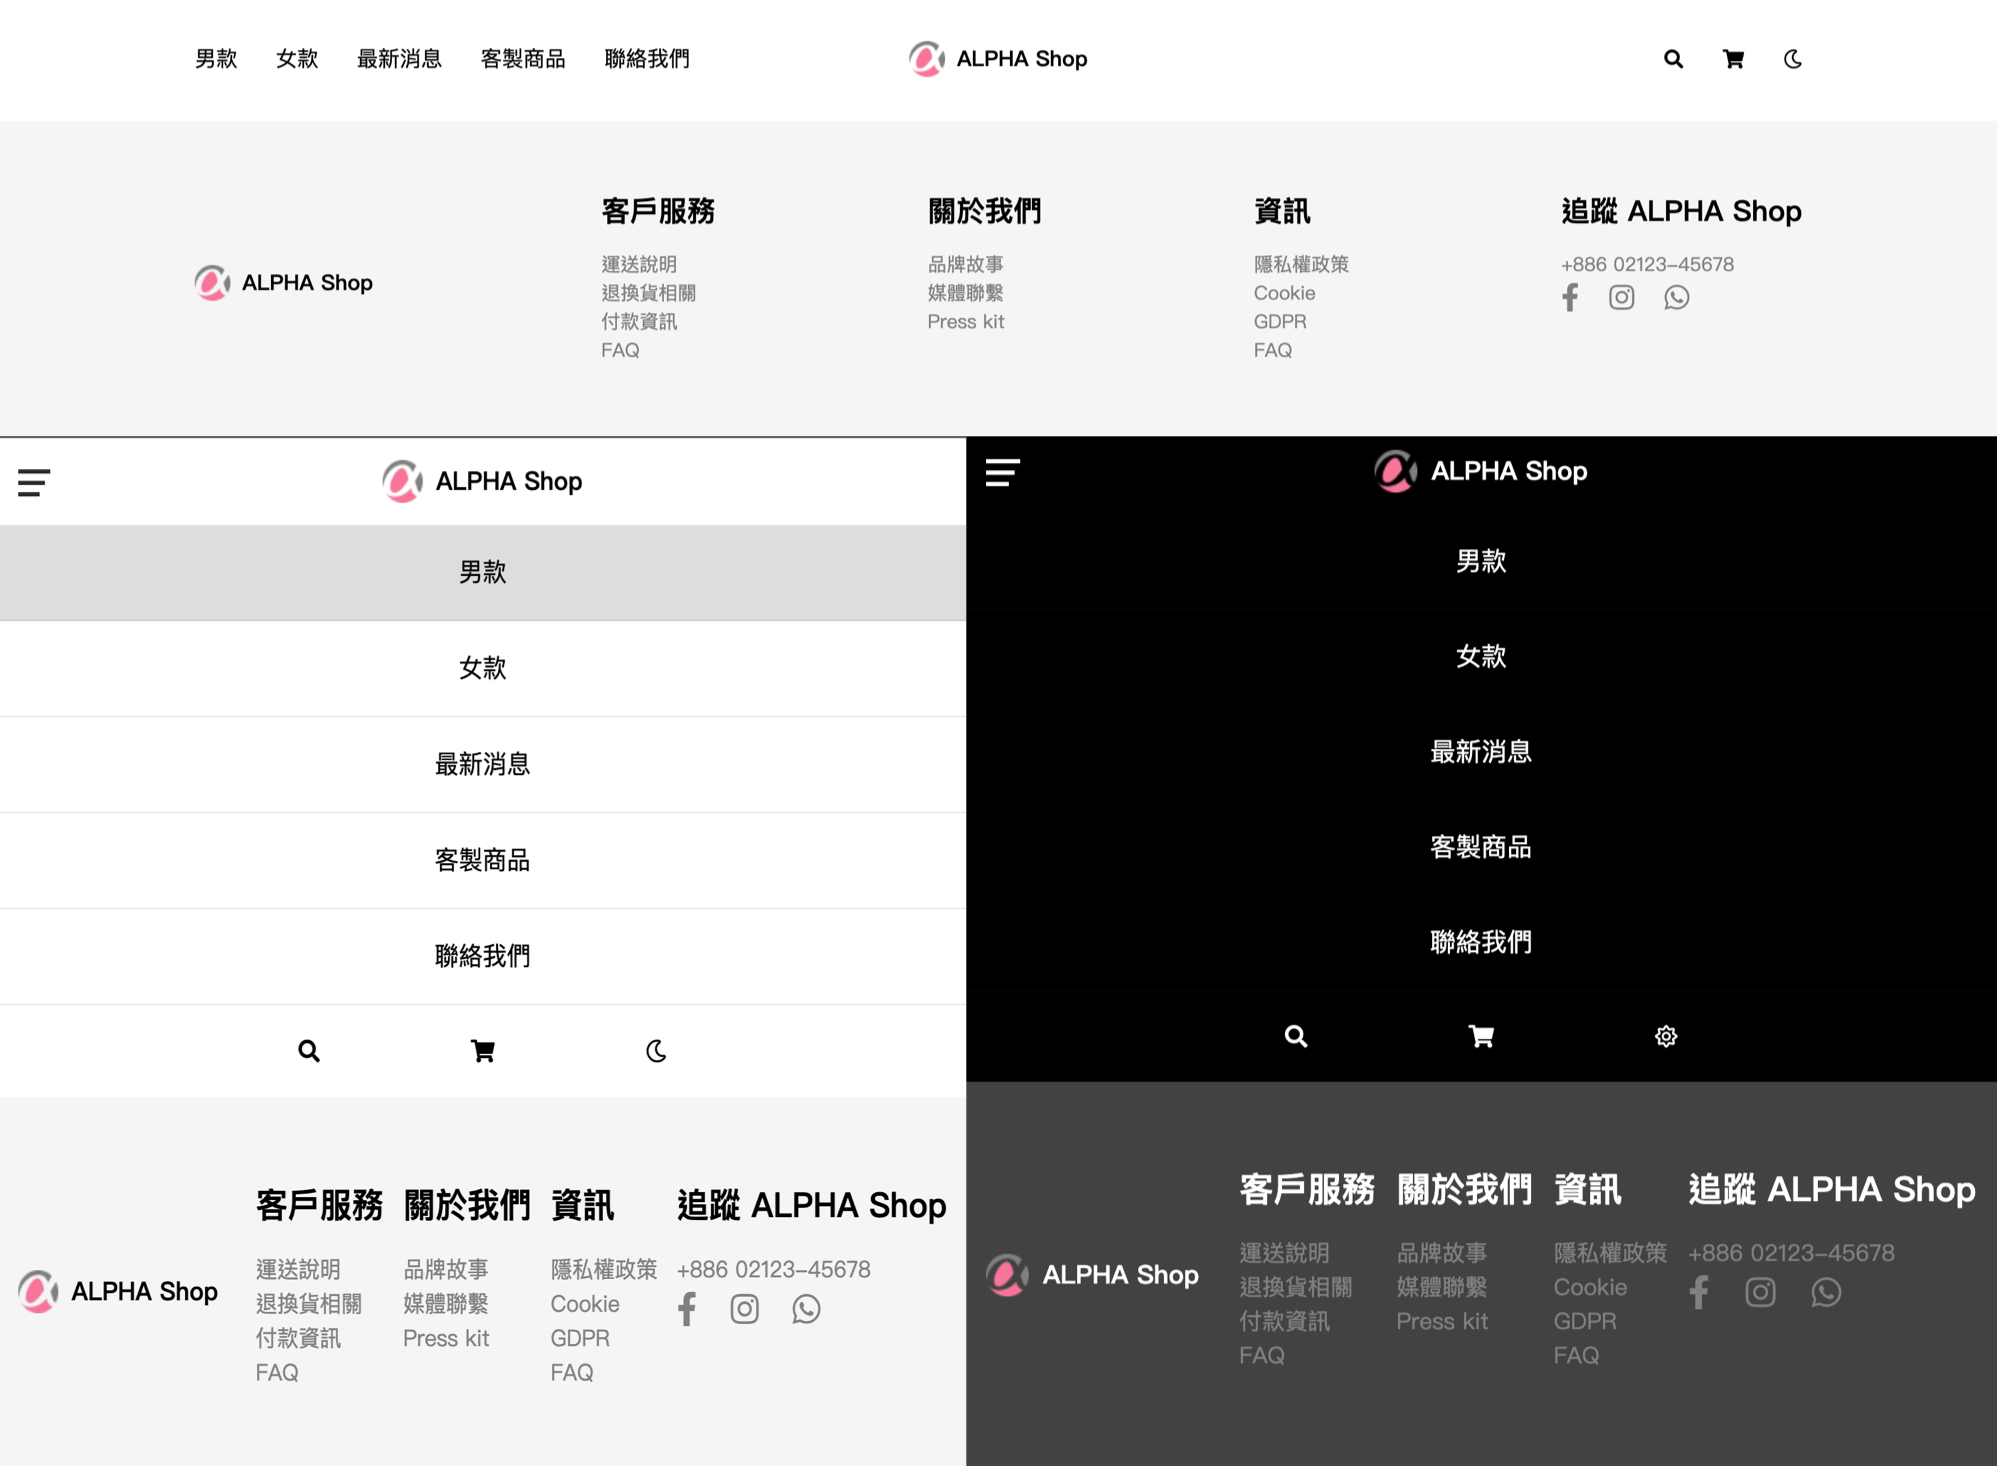
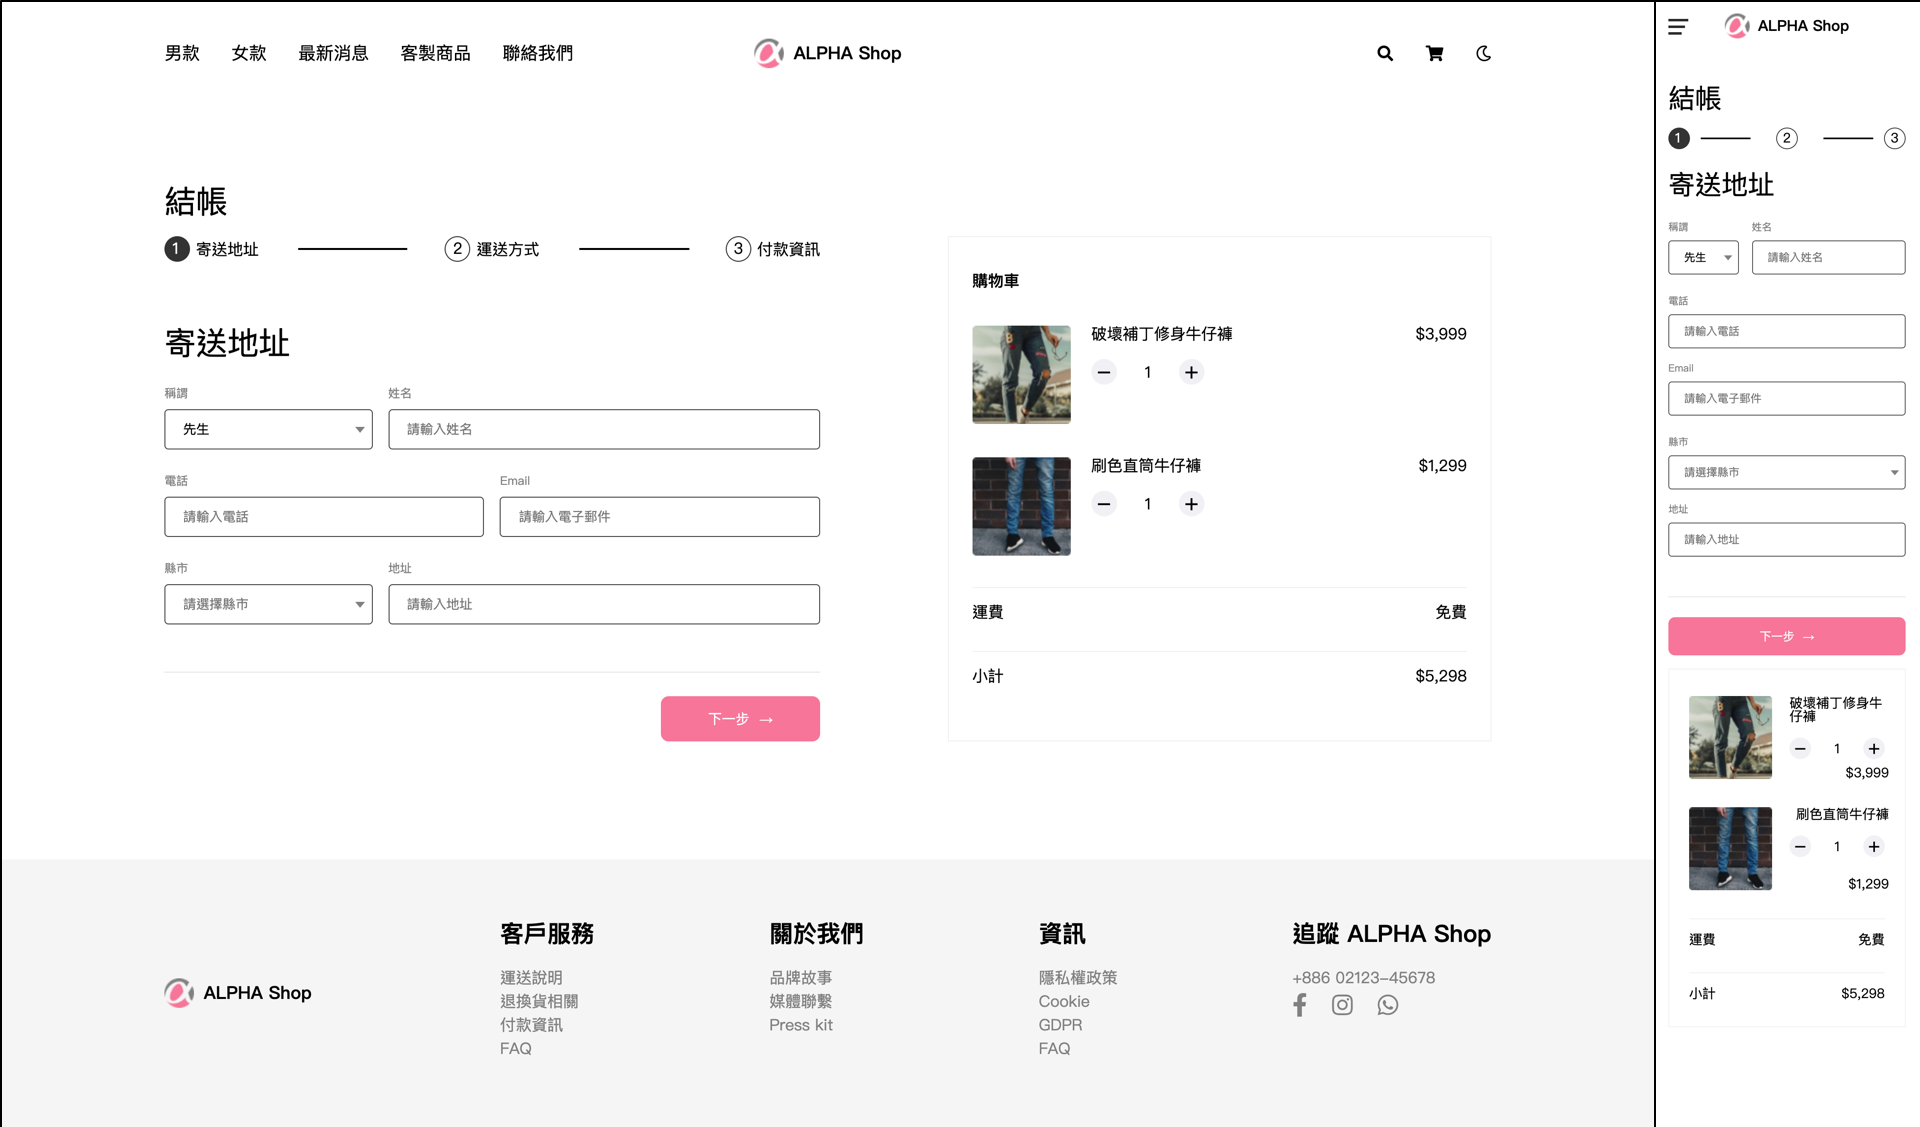
fix: reset btn-primary padding in mobile

diff --git a/css/style.css b/css/style.css
@@ -1522,25 +1522,27 @@ footer .container {
 }
 
 @media all and (max-width: 375px) {
-  .form-row .form__title__container,
   .form-row .form__city__container {
     -ms-grid-column: 1;
-    -ms-grid-column-span: 2;
-    grid-column: 1 / 3;
+    -ms-grid-column-span: 12;
+    grid-column: 1 / 13;
   }
-  .form-row .form__name__container,
   .form-row .form__address__container {
-    -ms-grid-column: 3;
-    -ms-grid-column-span: 4;
-    grid-column: 3 / 7;
+    -ms-grid-column: 1;
+    -ms-grid-column-span: 12;
+    grid-column: 1 / 13;
   }
   .form-row .form__phone__container,
+  .form-row .form__email__container {
+    -ms-grid-column: 1;
+    -ms-grid-column-span: 12;
+    grid-column: 1 / 13;
+  }
   .form-row .form__expiration__container {
     -ms-grid-column: 1;
     -ms-grid-column-span: 3;
     grid-column: 1 / 4;
   }
-  .form-row .form__email__container,
   .form-row .form__cvc__container {
     -ms-grid-column: 4;
     -ms-grid-column-span: 3;
@@ -1743,6 +1745,8 @@ footer .container {
 @media all and (max-width: 375px) {
   .btn-primary {
     width: 100%;
+    padding-left: 0px;
+    padding-right: 0px;
   }
 }
 

diff --git a/sass/components/_termsPanel.scss b/sass/components/_termsPanel.scss
@@ -79,22 +79,23 @@
   }
 
   @include mobile {
-    .form__title__container,
     .form__city__container {
-      grid-column: 1 / 3;
+      grid-column: 1 / 13;
     }
 
-    .form__name__container,
     .form__address__container {
-      grid-column: 3 / 7;
+      grid-column: 1 / 13;
     }
 
     .form__phone__container,
+    .form__email__container {
+      grid-column: 1 / 13;
+    }
+
     .form__expiration__container {
       grid-column: 1 / 4;
     }
 
-    .form__email__container,
     .form__cvc__container {
       grid-column: 4 / 7;
     }

diff --git a/sass/components/_buttons.scss b/sass/components/_buttons.scss
@@ -28,6 +28,8 @@
 
   @include mobile {
     width: 100%;
+    padding-left: 0px;
+    padding-right: 0px;
   }
 }
 

diff --git a/README.md b/README.md
@@ -16,3 +16,4 @@ git clone https://github.com/chris1085/AC-S3-shopcart.git
 * Normal and Dark Mode
 * Checkbox customization
 * Header and Footer RWD
+* Calculation of item price
